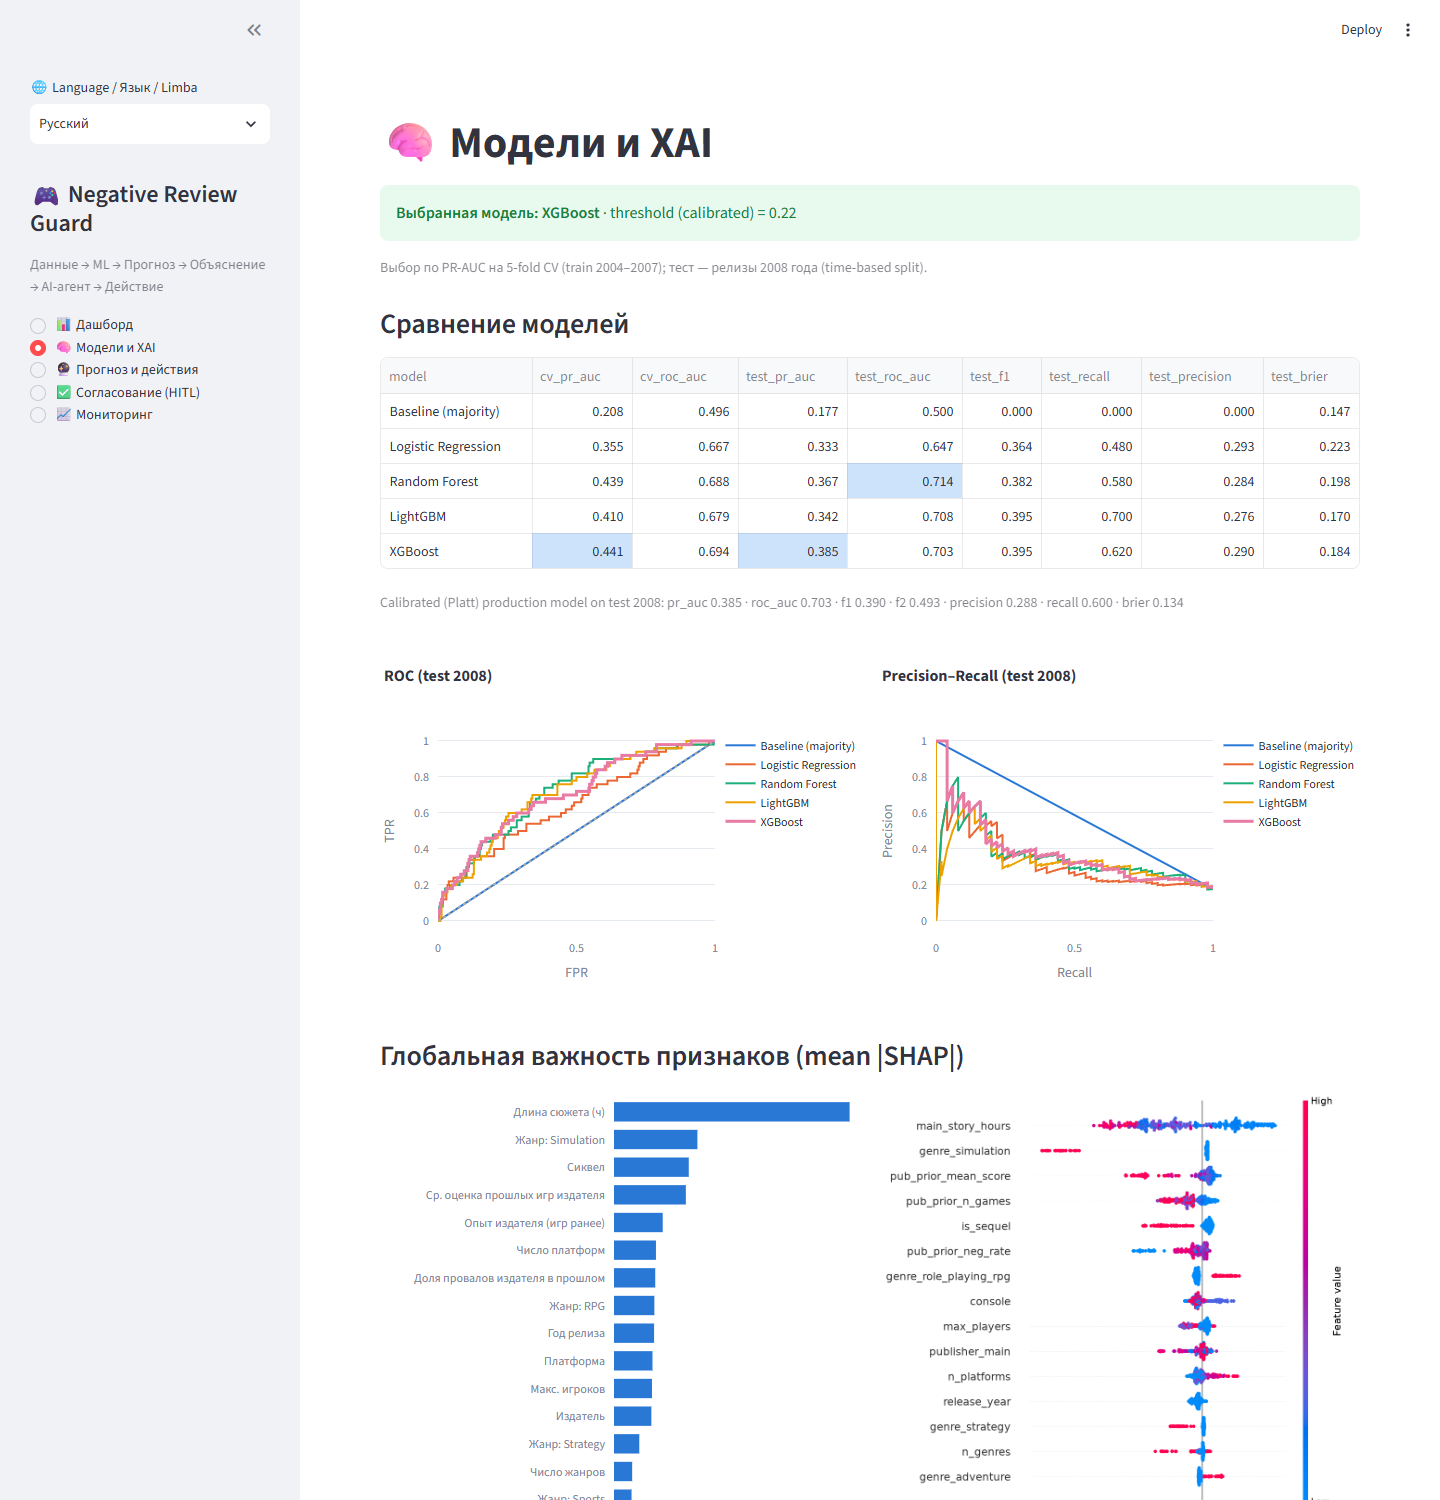
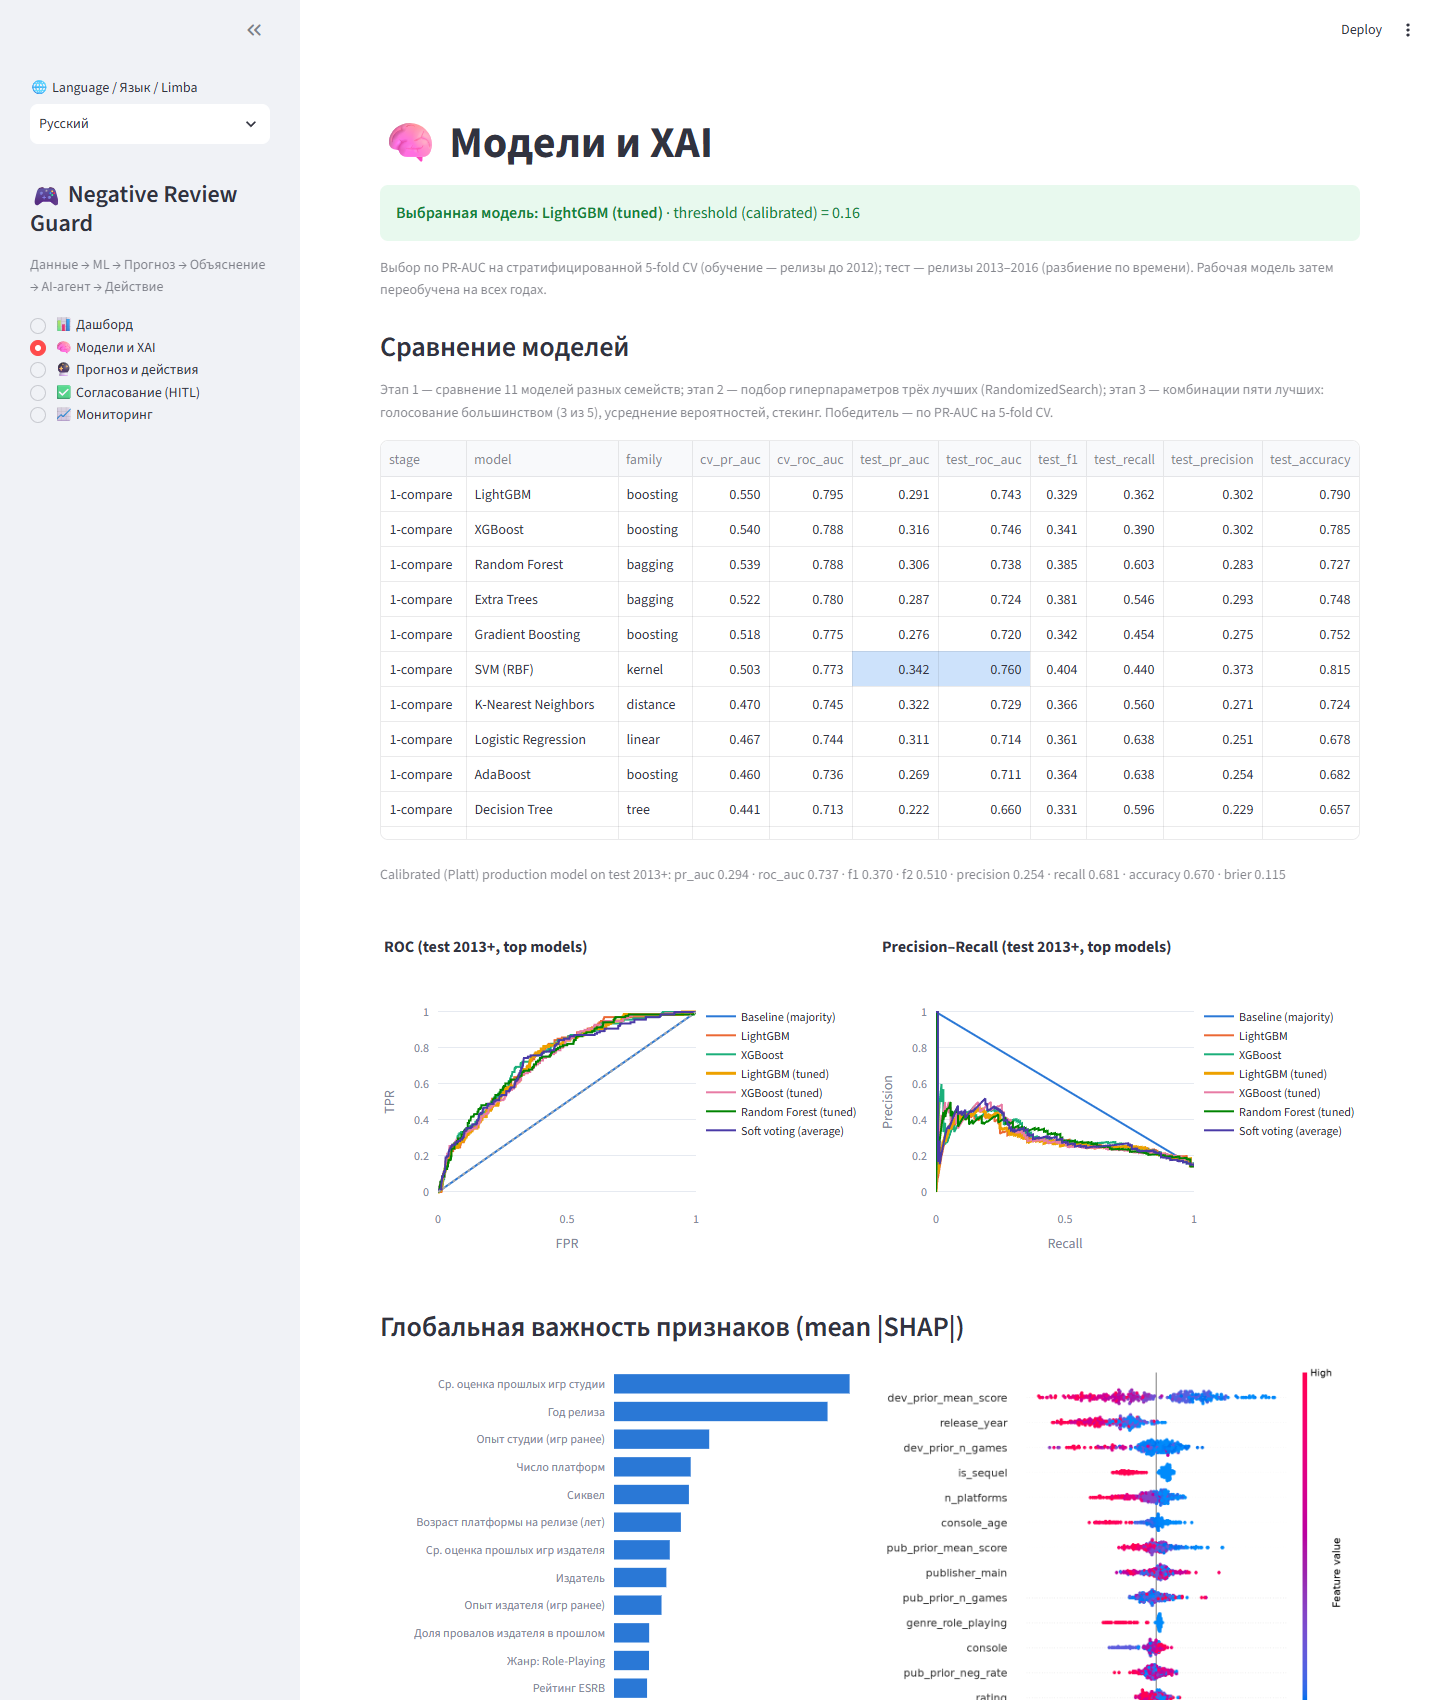
Fresh screenshots on the merged data; model page caption for the 2013-2016 test

diff --git a/nrg/i18n.py b/nrg/i18n.py
@@ -31,9 +31,9 @@ STR = {
     "data_quality": ("Качество данных", "Calitatea datelor", "Data quality"),
     "model_comparison": ("Сравнение моделей", "Compararea modelelor", "Model comparison"),
     "selected_model": ("Выбранная модель", "Modelul selectat", "Selected model"),
-    "selection_rule": ("Выбор по PR-AUC на 5-fold CV (train 2004–2007); тест — релизы 2008 года (time-based split).",
-                       "Selecție după PR-AUC pe 5-fold CV (train 2004–2007); test — lansările din 2008.",
-                       "Selected by 5-fold CV PR-AUC (train 2004–2007); test = 2008 releases (time-based split)."),
+    "selection_rule": ("Выбор по PR-AUC на стратифицированной 5-fold CV (обучение — релизы до 2012); тест — релизы 2013–2016 (разбиение по времени). Рабочая модель затем переобучена на всех годах.",
+                       "Selecție după PR-AUC pe 5-fold CV stratificat (antrenare — lansări până în 2012); test — lansările 2013–2016. Modelul final e reantrenat pe toți anii.",
+                       "Selected by stratified 5-fold CV PR-AUC (train = releases up to 2012); test = 2013–2016 releases (time-based split). The production model is then refit on all years."),
     "global_importance": ("Глобальная важность признаков (mean |SHAP|)",
                           "Importanța globală a caracteristicilor (mean |SHAP|)",
                           "Global feature importance (mean |SHAP|)"),
